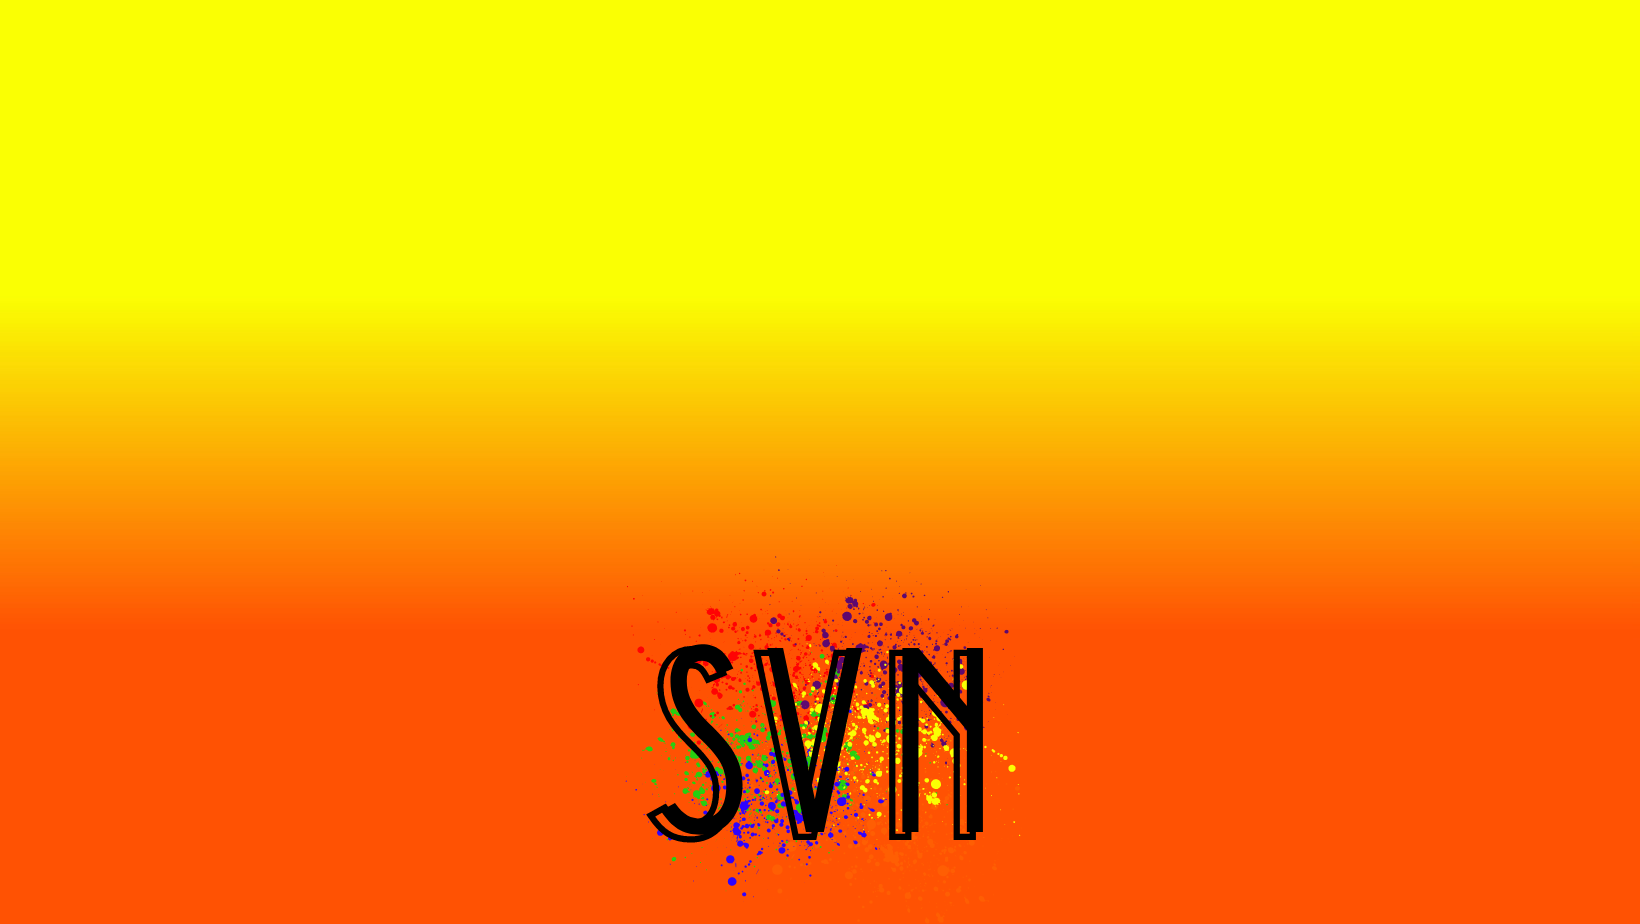
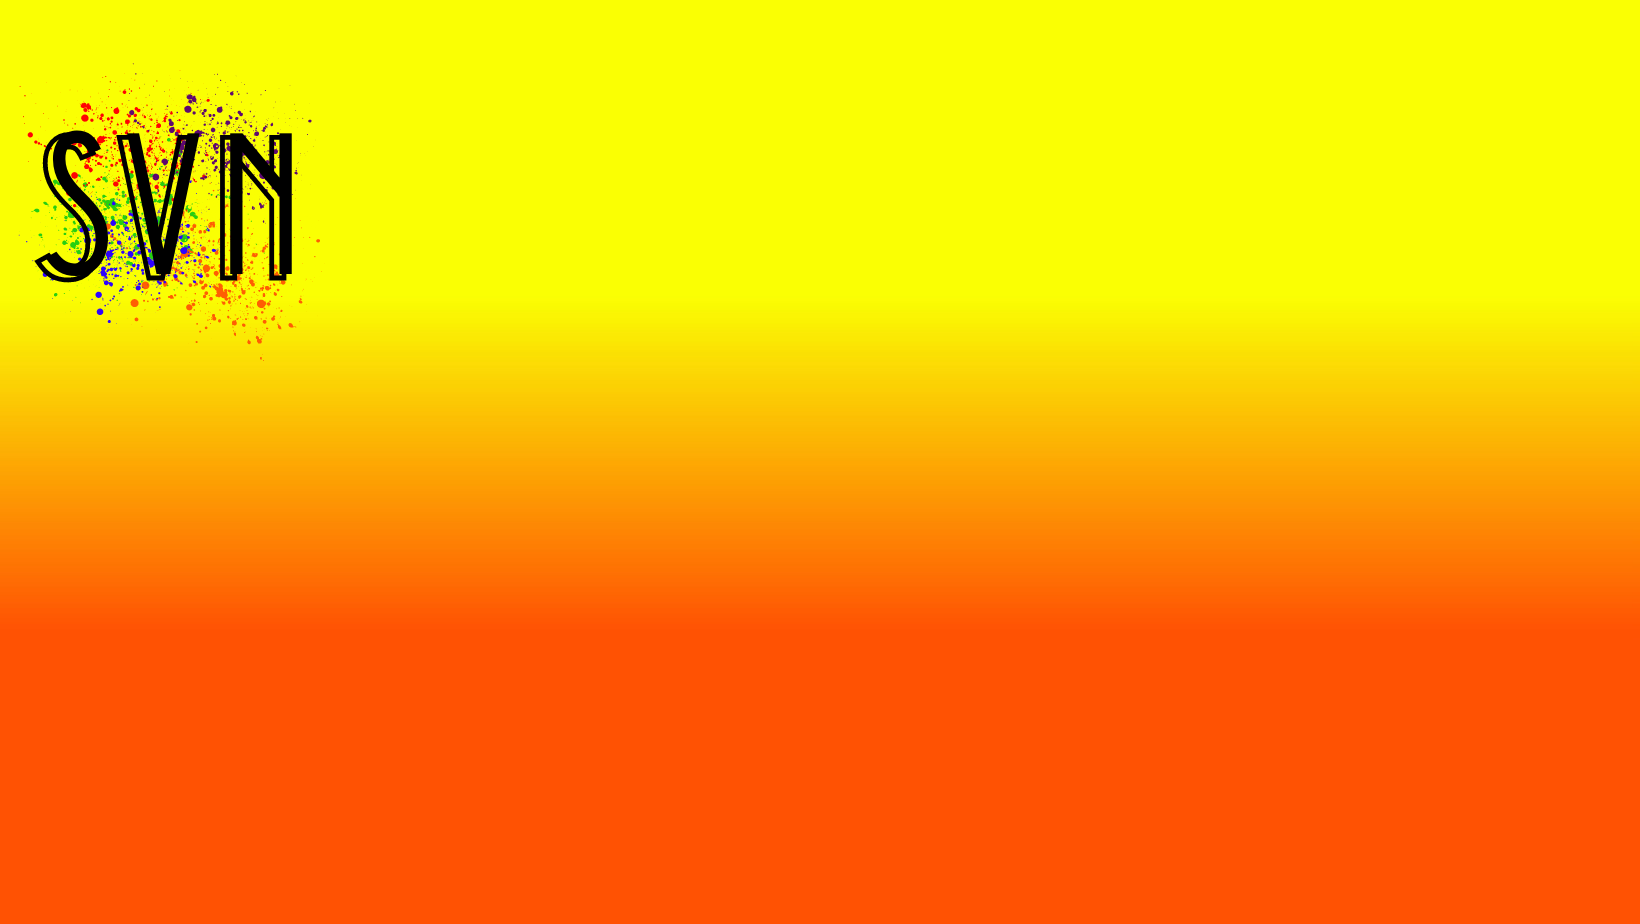
promesamap

Changed region(s): [[0.3732, 0.6364, 0.622, 0.9394], [0.0, 0.0909, 0.1866, 0.3636]]

diff --git a/src/components/item/ArrayObras.jsx b/src/components/item/ArrayObras.jsx
@@ -1,92 +1,94 @@
 const obras = [
-    {   "id": 1,
-        "nb": "CALAVERA", 
-        "precio": 6500, 
-        "med": "60x60", 
-        "img1":"../../assets/imagenes/obra1.png", 
+    {   id: 1,
+        nb: "CALAVERA", 
+        precio: 6500, 
+        med: "60x60", 
+        img1: "https://via.placeholder.com/300", 
     },
-    {   "id": 2,
-        "nb": "PAPA BUDA", 
-        "precio": 4000, 
-        "med": "40x40",
-        "img1": "../../assets/imagenes/obra2.png", 
+    {   id: 2,
+        nb: "PAPA BUDA", 
+        precio: 4000, 
+        med: "40x40",
+        img1: "https://via.placeholder.com/300", 
     },
-    {   "id": 3,
-        "nb": "PSICODELICO",
-        "precio": 4500,
-        "med": "40x70",
-        "img1": "../../assets/imagenes/obra3.png",
+    {   id: 3,
+        nb: "PSICODELICO",
+        precio: 4500,
+        med: "40x70",
+        img1: "https://via.placeholder.com/300",
     },
-    {   "id": 4,
-        "nb": "TRES MUJERES", 
-        "precio": 6500, 
-        "med": "40x70", 
-        "img1": "../../assets/imagenes/obra4.png", 
+    {   id: 4,
+        nb: "TRES MUJERES", 
+        precio: 6500, 
+        med: "40x70", 
+        img1: "https://via.placeholder.com/300", 
     },
-    {   "id": 5,
-        "nb": "CARAS", 
-        "precio": 4500, 
-        "med": "50x50", 
-        "img1": "../../assets/imagenes/obra5.png"
+    {   id: 5,
+        nb: "CARAS", 
+        precio: 4500, 
+        med: "50x50", 
+        img1: "https://via.placeholder.com/300"
     },
-    {   "id": 6,
-        "nb": "EL CHICO", 
-        "precio": 6500, 
-        "med": "50x70",
-        "img1": "../../assets/imagenes/obra6.png"
+    {   id: 6,
+        nb: "EL CHICO", 
+        precio: 6500, 
+        med: "50x70",
+        img1: "https://via.placeholder.com/300"
     },
-    {   "id": 7,
-        "nb": "JIRAFA", 
-        "precio": 7000, 
-        "med": "40x80", 
-        "img1": "../../assets/imagenes/obra7.png"
+    {   id: 7,
+        nb: "JIRAFA", 
+        precio: 7000, 
+        med: "40x80", 
+        img1: "https://via.placeholder.com/300"
     },
-    {   "id": 8,
-        "nb": "EL DIABLO Y LA NIÑA", 
-        "precio": 5000, 
-        "med": "50x70", 
-        "img1": "../../assets/imagenes/obra8.png"
+    {   id: 8,
+        nb: "EL DIABLO Y LA NIÑA", 
+        precio: 5000, 
+        med: "50x70", 
+        img1: "https://via.placeholder.com/300"
     },
-    {   "id": 9,
-        "nb": "ALIEN VOLANDO", 
-        "precio": 4000, 
-        "med": "30x40", 
-        "img1": "../../assets/imagenes/obra9.png"
+    {   id: 9,
+        nb: "ALIEN VOLANDO", 
+        precio: 4000, 
+        med: "30x40", 
+        img1: "https://via.placeholder.com/300"
     },
-    {   "id": 10,
-        "nb": "GALAXIA", 
-        "precio": 6500, 
-        "med": "50x70", 
-        "img1": "../../assets/imagenes/obra10.png"
+    {   id: 10,
+        nb: "GALAXIA", 
+        precio: 6500, 
+        med: "50x70", 
+        img1: "https://via.placeholder.com/300"
     },
-    {   "id": 11,
-        "nb": "SOMBRAS CAMINANDO", 
-        "precio": 4000, 
-        "med": "30x40", 
-        "img1": "../../assets/imagenes/obra11.png"
+    {   id: 11,
+        nb: "SOMBRAS CAMINANDO", 
+        precio: 4000, 
+        med: "30x40", 
+        img1: "https://via.placeholder.com/300"
     },
-    {   "id": 12,
-        "nb": "SELVA TROPICAL", 
-        "precio": 6000, 
-        "med": "40x70", 
-        "img1": "../../assets/imagenes/obra12.png"
+    {   id: 12,
+        nb: "SELVA TROPICAL", 
+        precio: 6000, 
+        med: "40x70", 
+        img1: "https://via.placeholder.com/300"
     },
-    {   "id": 13,
-        "nb": "LOS NIÑOS", 
-        "precio": 4000, 
-        "med": "40x40", 
-        "img1": "../../assets/imagenes/obra13.png"
+    {   id: 13,
+        nb: "LOS NIÑOS", 
+        precio: 4000, 
+        ed: "40x40", 
+        img1: "https://via.placeholder.com/300"
     },
-    {   "id": 14,
-        "nb": "EL DRAGÓN", 
-        "precio": 7000, 
-        "med": "40x70", 
-        "img1": "../../assets/imagenes/obra14.png"
+    {   id: 14,
+        nb: "EL DRAGÓN", 
+        precio: 7000, 
+        med: "40x70", 
+        img1: "https://via.placeholder.com/300"
     },
-    {   "id": 15,
-        "nb": "GRITO DE COLOR", 
-        "precio": 15000, 
-        "med": "100x120", 
-        "img1": "../../assets/imagenes/obra15.png" 
+    {   id: 15,
+        nb: "GRITO DE COLOR", 
+        precio: 15000, 
+        med: "100x120", 
+        img1: "https://via.placeholder.com/300" 
     }   
 ]
+
+export default obras;

diff --git a/src/components/item/ItemList.jsx b/src/components/item/ItemList.jsx
@@ -1,6 +1,6 @@
 import React, { useEffect, useState } from 'react'; 
 import Item from "../item/Item.jsx";
-import ArrayObras from "../item/ArrayObras.jsx";
+import Obras from "../item/ArrayObras.jsx";
 
 const ItemList = (props) => {
     const [displayItems, setDisplayItems] = useState ([]);
@@ -8,7 +8,7 @@ const ItemList = (props) => {
     const getItems = () => {
         return new Promise ((resolve, reject) => {
             setTimeout(() => {
-                resolve (ArrayObras);
+                resolve (Obras);
                 reject ("Error en la consulta");
             }, 2000);
         });
@@ -20,8 +20,7 @@ const ItemList = (props) => {
    
     return (
         <>
-        {displayItems.length > 0 &&
-        displayItems.map((item) => <Item item={item} />)}
+        {displayItems.map((item) => <Item item={item} />)}
         </>
     );
 }

diff --git a/src/components/item/item.css b/src/components/item/item.css
@@ -5,21 +5,26 @@
 }
 
 .tarjeta {
-    width: 17rem;
-    height: 27rem;
+    width: 22rem;
+    height: 30rem;
+    text-align: center;
+    border: solid #000000 0.2rem;
+    box-shadow: 0.5rem 0.5rem 0.5rem #000000;
     padding: 1rem;
     margin: 1rem;
 }
 
 .imagenTarj {
-    width: 5rem;
-    height: 5rem;
+    width: 18rem;
+    height: 18rem;
     margin: 0.5rem;
 }
 
 .textoTarj {
+    display: flex;
+    flex-direction: column;
     font-family: "monserrat";
     font-weight: bold;
-    font-size: 2rem;
+    font-size: 1.5rem;
     margin: 0.5rem;
 }

diff --git a/src/App.jsx b/src/App.jsx
@@ -6,11 +6,11 @@ function App() {
   return (
     <div className="aplicacion">
       <NavBar />
-      <ItemListContainer leyenda="Obras de arte disponible para su compra"/>
-      <div className="seccion">
+      <header className="seccion">
         <h1 className="seccion__titulo">SVN</h1>
         <h2 className="seccion__subtitulo">ARTE EN COLORES</h2>
-      </div>
+      </header>
+      <ItemListContainer leyenda="Obras de arte disponible para su compra"/>
     </div>
   );
 }

diff --git a/src/components/itemlistcontainer/ItemListContainer.css b/src/components/itemlistcontainer/ItemListContainer.css
@@ -7,6 +7,12 @@
 @font-face {
     font-family: "monserrat";
     src: url(/src/assets/fuentes/montserratmedium.ttf); }
+
+.ItemListContainer {
+    position: absolute;
+    top: 10rem;
+    width: 100%;
+}
     
 .leyenda {
     font-family: "monserrat";
@@ -24,6 +30,9 @@
 }
 
 .obras {
-    display: flex;
-    flex-wrap: wrap;
+    display: grid;
+    grid-template-columns: 27rem 27rem 27rem;
+    grid-template-rows: repeat (40rem);
+    justify-content: center;
+    gap: 1%;
 }

diff --git a/src/App.css b/src/App.css
@@ -21,13 +21,16 @@ body {
 
 .seccion {
   position: absolute;
-  bottom: 2rem;
+  top: 4rem;
+  display: flex;
+  justify-content: center;
   width: 100%;
   padding: 1rem 1rem 0rem 1rem;
 }
 
 .seccion__titulo {
-  color: #ff5e03;
+  color: #faff03;
+  font-size: 0.1rem;
 }
 
 .seccion__subtitulo {
@@ -35,7 +38,6 @@ body {
   font-size: 4rem;
   font-weight: bold;
   color: #000000;
-  text-align: center;
   letter-spacing: 2rem;
   margin-bottom: 1rem;
 }

diff --git a/src/components/itemlistcontainer/ItemListContainer.jsx b/src/components/itemlistcontainer/ItemListContainer.jsx
@@ -6,6 +6,7 @@ import ItemList from "../item/ItemList.jsx";
 const Container = (props) => {
     return (
     <>
+    <div className="ItemListContainer">
         <p className="leyenda">{props.leyenda}</p>
         <div className="contador">
             <ItemCount inicial={0} stock={3}/>       
@@ -13,6 +14,7 @@ const Container = (props) => {
         <div className="obras">
             <ItemList/>
         </div>
+    </div>
     </>
     );
 }

diff --git a/src/components/item/Item.jsx b/src/components/item/Item.jsx
@@ -9,7 +9,7 @@ function Item ({item}) {
         <div className="textoTarj">
             <small>{item.nb}</small>
             <small>{item.med}</small>
-            <small>{item.precio}</small>
+            <small>${item.precio}</small>
         </div>
     </div>
     </>
